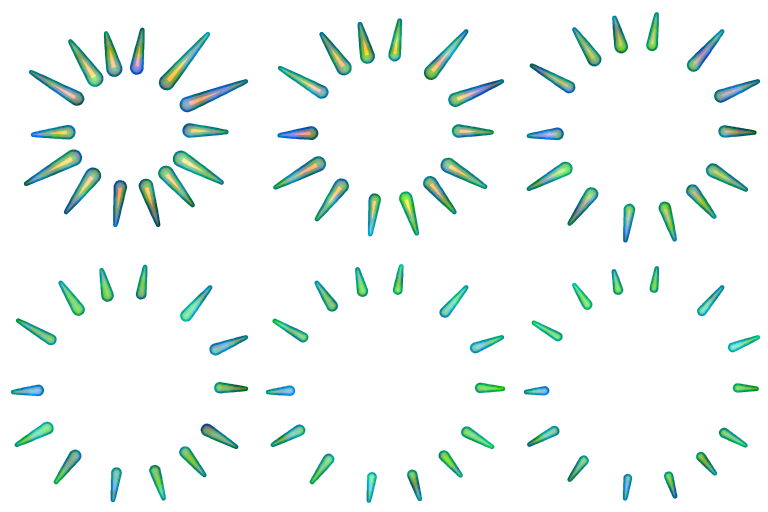
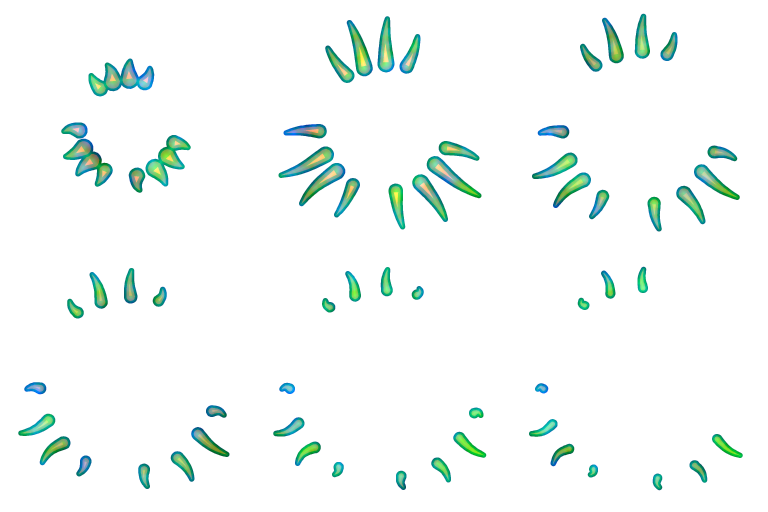
feat(fx): combo burst and comic_pop radial strokes in clustered fans
fx-language queue item 8: the combo burst sheet is three uneven fans of
burst lines (vfxlib.cluster_angles, the war cry's stroke language), and
comic_pop's radial strokes use the same layout at runtime through the new
FX_BEAT.cluster_angles.

diff --git a/tools/vfx_gen/gen_finish.py b/tools/vfx_gen/gen_finish.py
@@ -13,7 +13,7 @@ import sys
 import numpy as np
 
 sys.path.insert(0, os.path.dirname(os.path.abspath(__file__)))
-from vfxlib import (BODY, DEEP, HOT, INK, LIGHT, SS, Frame, catmull, ellipse_mask, erode_field, fbm, grow,  # noqa: E402
+from vfxlib import (BODY, cluster_angles, DEEP, HOT, INK, LIGHT, SS, Frame, catmull, ellipse_mask, erode_field, fbm, grow,  # noqa: E402
                     pack, poly_mask, preview, rng, save, star, stroke, wobble_ring)
 
 OUT = os.path.join(os.path.dirname(os.path.abspath(__file__)), "..", "..", "assets", "vfx", "designed")
@@ -325,29 +325,38 @@ def daze_star(i, n, size):
     return f.finish()
 
 
-# --- combo_burst: a named combo landing (Fx.combo_pop): strokes bursting out all round him -----------------------
-# Manga burst lines thrown outward from a clear hole round him (never over him): frame 0 short and fat at the hole's
-# edge, then they race out and stretch, then snap thin and break to dashes.
+# --- combo_burst: a named combo landing (Fx.combo_pop): strokes bursting out round him -----------------------------
+# fx-queue-b (fx-language rule 7): three uneven fans of burst lines (vfxlib.cluster_angles), never an even ring, thrown
+# out from a clear hole round him (never over him), the war cry's language: fat round inner ends tapering to needles,
+# the longest and fattest in each fan's middle. Frame 0 short hot stubs at the hole's edge (the anticipation), 1 the
+# peak (full length, hot inner third), 2 lit, then the inner ends race out after the tips (tail first) and thin.
 
 def combo_burst(i, n, size):
     f = Frame(size)
     c = f.c
     g = rng(907)
-    k_l = 14
     t = i / (n - 1)
-    for j in range(k_l):
-        a = math.tau * j / k_l + g.uniform(-0.12, 0.12)
-        ln = g.uniform(0.65, 1.3)
-        back = lerp(0.46, 0.74, ease_out(t)) + g.uniform(0.0, 0.04)
-        front = min(0.99, back + lerp(0.42, 0.22, t) * ln)
-        w = f.u(lerp(0.085, 0.04, t)) * g.uniform(0.8, 1.2)
-        path = [polar(c, f.u(lerp(back, front, u)), a) for u in np.linspace(0, 1, 14)]
-        # fat at the inner end (round cap), drawn out to a needle at the outside: thrown out from him
-        m = poly_mask([stroke(path, lambda u: w * (1 - u) ** 0.9 + 0.5, cap=True)], f.S)
-        f.fill(m, BODY, ink=2.2)
-        if t < 0.6:
-            core = [polar(c, f.u(lerp(back, front, u)), a) for u in np.linspace(0.04, 0.55, 8)]
-            f.fill(poly_mask([stroke(core, [w * 0.4, w * 0.25, 0.0], cap=False)], f.S) * m, HOT if i <= 1 else LIGHT)
+    hole = 0.4
+    for j, (a, wt) in enumerate(cluster_angles(12, 911, clusters=3, spread=0.5)):
+        ln = lerp(0.45, 1.0, wt) * g.uniform(0.9, 1.06)
+        bow = (0.03 if j % 2 else -0.025) * g.uniform(0.6, 1.2)
+        if i == 0:
+            back, front = hole * 0.95, hole + 0.14 * ln
+        else:
+            back = hole + lerp(0.0, 0.34, ease_out(t) ** 1.3) + g.uniform(0.0, 0.03)
+            front = min(0.985, hole + lerp(0.5, 0.58, ease_out(t)) * ln)
+        if front - back < 0.04:
+            continue
+        w = f.u(lerp(0.095, 0.035, t) if i > 0 else 0.1) * lerp(0.55, 1.15, wt)
+        path = [polar(c, f.u(lerp(back, front, u)), a + bow * math.sin(u * math.pi)) for u in np.linspace(0, 1, 14)]
+        m = poly_mask([stroke(path, lambda u: w * (1 - u) ** 0.85 + 0.5, cap=True)], f.S)
+        f.fill(m, BODY, ink=2.6)
+        if i <= 2:
+            core = [polar(c, f.u(lerp(back, front, u)), a + bow * math.sin(u * math.pi)) for u in np.linspace(0.04, 0.45, 8)]
+            f.fill(poly_mask([stroke(core, [w * 0.45, w * 0.22, 0.0], cap=False)], f.S) * m, HOT if i <= 1 else LIGHT)
+        elif i <= 3:
+            lit = [polar(c, f.u(lerp(back, front, u)), a + bow * math.sin(u * math.pi)) for u in np.linspace(0.04, 0.5, 8)]
+            f.fill(poly_mask([stroke(lit, [w * 0.35, w * 0.15, 0.0], cap=False)], f.S) * m, LIGHT)
     return f.finish()
 
 
